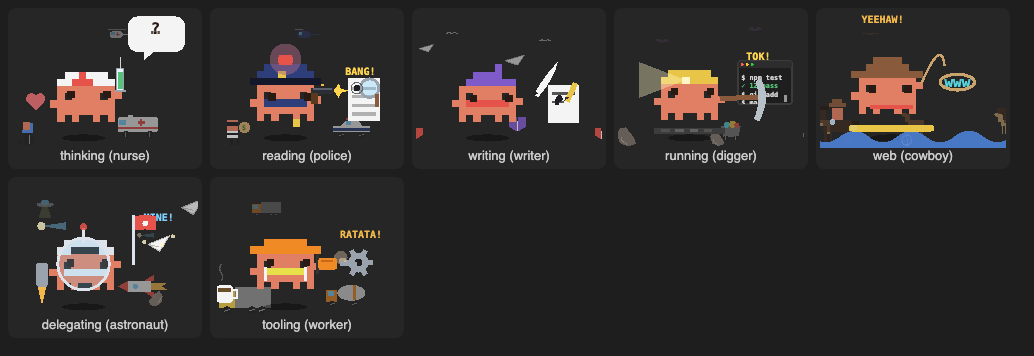
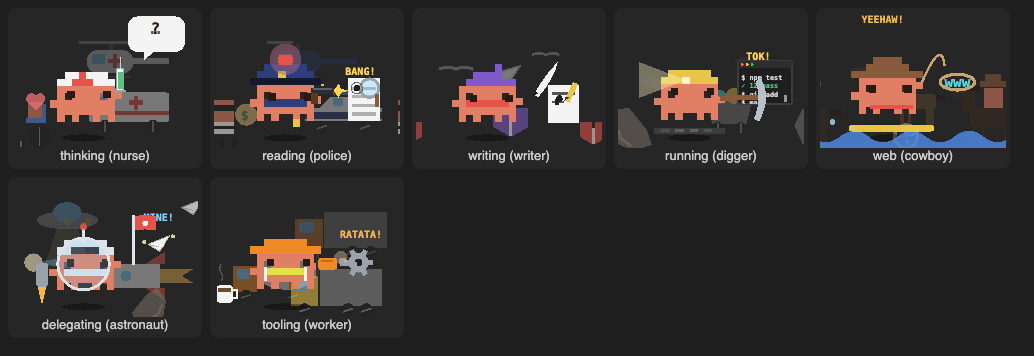
agents-panel 0.6.2: passing things drawn large across the background

diff --git a/mods/agents-panel/hooks/register.tsx b/mods/agents-panel/hooks/register.tsx
@@ -710,22 +710,22 @@ const at = (x: number, y: number, s: number, svg: string) => `<g transform="tran
 function sceneryOf(c: Character): [string, string, string] {
   const M = MOVERS
   switch (c) {
-    case 'digger': return [at(4, 0, 0.5, M.bat) + at(17, -1.6, 0.5, M.bat), at(14, 14, 0.7, M.cart), at(2, 14.6, 0.8, M.rock) + at(15, 14.6, 0.6, M.rock)]
-    case 'cowboy': return [at(6, -1, 0.4, M.buzzard), at(14, 13, 0.55, M.horse('#6B4A2E', false)) + at(1, 13, 0.55, M.horse('#C9A36B', false)), at(8, 14.6, 1, M.horse('#3A2A20', true)) + at(20, 14.6, 0.7, M.tumbleweed)]
-    case 'police': return [at(10, 0, 0.5, M.helicopter(false)), at(16, 13.6, 0.7, M.policeCar), at(3, 14.6, 0.9, M.robber)]
-    case 'nurse': return [at(12, 0, 0.5, M.helicopter(true)), at(14, 13.6, 0.8, M.ambulance), at(2, 14.6, 0.8, M.wheelchair)]
-    case 'biker': return [at(6, -1, 0.4, M.bird) + at(18, 1, 0.4, M.bird), at(14, 13.4, 0.6, M.truck('#4F86E0')), at(2, 14.6, 0.9, M.car('#E5534B'))]
-    case 'worker': return [at(4, 1, 0.5, M.truck('#F08A24')), at(15, 13.6, 0.7, M.mixer), at(2, 14.6, 0.9, M.truck('#E8C547'))]
-    case 'astronaut': return [at(2, 0, 0.5, M.ufo) + at(16, 4, 0.4, M.comet), at(14, 12, 0.8, M.rocket), at(4, 3, 0.7, M.comet) + at(20, 13, 0.6, M.rock)]
-    case 'detective': return [at(3, -1, 0.5, M.crow) + at(15, 1, 0.5, M.crow), at(12, 13.6, 0.6, M.horse('#5A5A68', false) + M.carriage), at(2, 14.6, 1, M.cat)]
-    case 'writer': return [at(4, -1, 0.5, M.bird) + at(17, 0, 0.5, M.bird), at(14, 4, 0.8, M.plane) + at(2, 2, 0.6, M.plane), at(20, 13, 1, M.book('#7E5BC8')) + at(6, 14, 0.8, M.book('#E5534B'))]
-    case 'teacher': return [at(4, 0, 0.6, M.plane) + at(18, -1, 0.5, M.plane), at(12, 13.6, 0.7, M.bus), at(3, 14.6, 1, M.apple)]
+    case 'digger': return [at(2, 6, 1.6, M.bat) + at(15, 3, 1.3, M.bat), at(12, 13, 1.6, M.cart), at(1, 15, 1.8, M.rock)]
+    case 'cowboy': return [at(4, 4, 1.4, M.buzzard), at(12, 12, 1.3, M.horse('#6B4A2E', false)), at(2, 15, 1.6, M.horse('#3A2A20', true)) + at(19, 15, 1.6, M.tumbleweed)]
+    case 'police': return [at(6, 6, 1.8, M.helicopter(false)), at(12, 13, 1.5, M.policeCar), at(1, 15, 1.7, M.robber)]
+    case 'nurse': return [at(8, 6, 1.8, M.helicopter(true)), at(10, 13, 1.6, M.ambulance), at(2, 15, 1.6, M.wheelchair)]
+    case 'biker': return [at(3, 4, 1.4, M.bird) + at(16, 6, 1.2, M.bird), at(10, 13, 1.4, M.truck('#4F86E0')), at(0, 15, 1.7, M.car('#E5534B'))]
+    case 'worker': return [at(10, 7, 1.6, M.truck('#F08A24')), at(2, 13, 1.5, M.mixer), at(12, 15, 1.6, M.truck('#E8C547'))]
+    case 'astronaut': return [at(2, 4, 1.8, M.ufo), at(10, 12, 1.7, M.rocket), at(2, 9, 1.6, M.comet) + at(18, 15, 1.5, M.rock)]
+    case 'detective': return [at(2, 4, 1.5, M.crow) + at(16, 6, 1.2, M.crow), at(8, 13, 1.3, M.horse('#5A5A68', false) + M.carriage), at(1, 15, 2, M.cat)]
+    case 'writer': return [at(3, 4, 1.5, M.bird) + at(16, 2, 1.2, M.bird), at(10, 8, 1.8, M.plane), at(18, 14, 2, M.book('#7E5BC8')) + at(4, 15, 1.6, M.book('#E5534B'))]
+    case 'teacher': return [at(2, 5, 1.8, M.plane) + at(16, 2, 1.4, M.plane), at(6, 13, 1.3, M.bus), at(1, 15, 1.8, M.apple)]
   }
 }
 
 function backdropSvg(c: Character, busy: boolean) {
   const speeds = c === 'biker' ? [6, 2.4, 0.9] : c === 'astronaut' ? [40, 20, 9] : busy ? [16, 8, 3.2] : [32, 16, 6.4]
-  const opacity = [0.35, 0.55, 0.75]
+  const opacity = [0.25, 0.4, 0.55]
   return `<g class="parallax">` + sceneryOf(c).map((tile, i) =>
     `<g opacity="${opacity[i]}"><g>${move('0 0;-26 0', speeds[i]!, ' calcMode="linear"')}${tile}<g transform="translate(26 0)">${tile}</g></g></g>`).join('') + `</g>`
 }

diff --git a/mods/agents-panel/README.md b/mods/agents-panel/README.md
@@ -72,8 +72,8 @@ first match in this table wins):
 | build, refactor, fix, implement… | worker | hard hat, hi-vis vest | jackhammer | dump trucks, a cement mixer |
 | dev, engineer, code, general… | digger | miner's helmet with a lamp beam | pickaxe | bats, a mine cart full of gems, rolling rocks |
 
-Behind the character, things pass by in three layers at different speeds (parallax): small and dim far
-away, bigger and faster up close. There is no painted landscape, only moving things. They go faster while the
+Behind the character, big dimmed shapes pass by in three layers at different speeds (parallax): the
+furthest are faintest and slowest, the nearest clearest and fastest. There is no painted landscape, only moving things. They go faster while the
 agent uses a tool, slower while it thinks, very fast for the biker and drift slowly in space.
 
 An agent whose role matches nothing gets a character picked from its type, the same one every time. The
@@ -190,6 +190,7 @@ The mod also registers a read-only tool, `mcp__agents-panel__state`, that return
 
 | Version | Changes |
 |---|---|
+| 0.6.2 | The passing things are drawn large across the background. |
 | 0.6.1 | The parallax shows only moving things (horses, an ambulance, a rocket, rolling rocks…), no landscape. |
 | 0.6.0 | Characters keep their tool while they work and use it on what they work on (pickaxe, lasso, pistol, syringe, wrench, jackhammer, flag, magnifier, quill, pointer); three-layer parallax scenery for each character. |
 | 0.5.0 | Characters chosen by the agent's role (three new: detective, writer, teacher); sprites act out the tool in use; sweat and coffee for long runs. |
